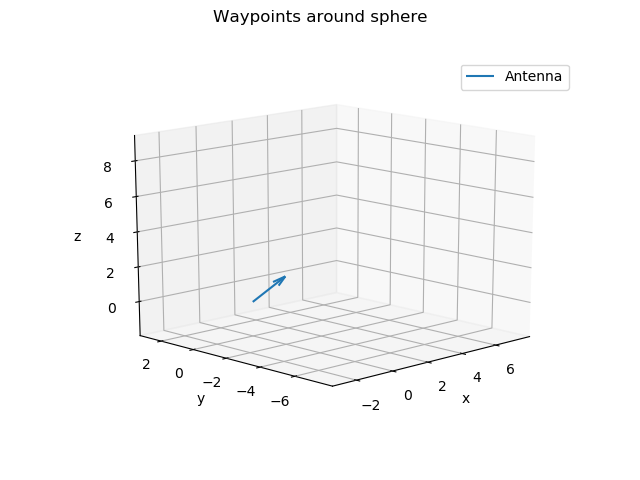
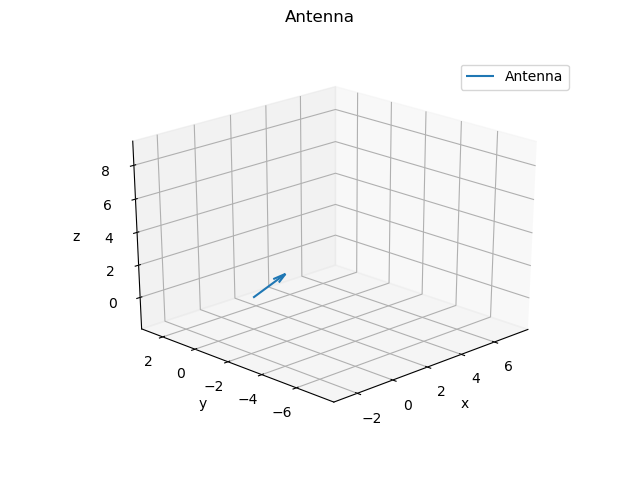
antenna pic

diff --git a/SwarmSphereCoverage_plot.py b/SwarmSphereCoverage_plot.py
@@ -63,7 +63,7 @@ def generate_points(direction =  np.zeros((3)), sphere_radius: float=5, distance
     if plot:
         # plot roots
         fig = plt.figure()
-        fig.suptitle("Waypoints around sphere", fontsize=12)
+        fig.suptitle("Antenna", fontsize=12)
         ax = fig.add_subplot(111, projection='3d')
         # for i in range(num_points):
         #     ax.scatter(X[i],Y[i],Z[i], s=30,color='r')#color=color_list[i])
@@ -85,10 +85,10 @@ def generate_points(direction =  np.zeros((3)), sphere_radius: float=5, distance
             # centers_[i,:] = R.apply(centers_[i,:]) 
             rot = np.array([X[i],Y[i],Z[i]])
             rot = R.apply(rot) 
-            ax.scatter(rot[0],rot[1],rot[2], marker='o', s=20, color='red',alpha = 0.3)
+            ax.scatter(rot[0],rot[1],rot[2], marker='o', s=0, color='red',alpha = 0.3)
         rot = np.array([X[-1],Y[-1],Z[-1]])
         rot = R.apply(rot)
-        ax.scatter(rot[0],rot[1],rot[2], marker='o', s=20, color='red',alpha = 0.3, label="Waypoints")
+        # ax.scatter(rot[0],rot[1],rot[2], marker='o', s=0, color='red',alpha = 0.3, label="Waypoints")
         
 
         R = Rotation.from_rotvec(direction)
@@ -103,35 +103,35 @@ def generate_points(direction =  np.zeros((3)), sphere_radius: float=5, distance
     
     #select only point above threshold
     points_thresh = points[:, np.argwhere(points[2,:] > distance_dir)]
-    if plot:
-        # plot roots
-        fig = plt.figure()
-        fig.suptitle("Selected waypoints", fontsize=12)
-        ax = fig.add_subplot(111, projection='3d')
+    # if plot:
+    #     # plot roots
+    #     fig = plt.figure()
+    #     fig.suptitle("Selected waypoints", fontsize=12)
+    #     ax = fig.add_subplot(111, projection='3d')
 
         
-        R = Rotation.from_rotvec(direction)
-        u, v, w = R.apply([0,0,1])
-        print(points_thresh.shape)
-        for i in range(points_thresh.shape[1]-1):
+    #     R = Rotation.from_rotvec(direction)
+    #     u, v, w = R.apply([0,0,1])
+    #     print(points_thresh.shape)
+    #     for i in range(points_thresh.shape[1]-1):
             
-            # ax.scatter(X[i],Y[i],Z[i], s=30,color='r')#color=color_list[i])
-            # centers_[i,:] = R.apply(centers_[i,:]) 
-            rot = np.array([points_thresh[0,i],points_thresh[1,i],points_thresh[2,i]]).reshape(3)
-            rot = R.apply(rot) 
-            ax.scatter(rot[0],rot[1],rot[2], marker='o', s=20, color='g',alpha = 0.3)
-        rot = np.array([points_thresh[0,-1],points_thresh[1,-1],points_thresh[2,-1]]).reshape(3)
-        rot = R.apply(rot)
-        ax.scatter(rot[0],rot[1],rot[2], marker='o', s=20, color='g',alpha = 0.3, label="Selected waypoints")
+    #         # ax.scatter(X[i],Y[i],Z[i], s=30,color='r')#color=color_list[i])
+    #         # centers_[i,:] = R.apply(centers_[i,:]) 
+    #         rot = np.array([points_thresh[0,i],points_thresh[1,i],points_thresh[2,i]]).reshape(3)
+    #         rot = R.apply(rot) 
+    #         ax.scatter(rot[0],rot[1],rot[2], marker='o', s=20, color='g',alpha = 0.3)
+    #     rot = np.array([points_thresh[0,-1],points_thresh[1,-1],points_thresh[2,-1]]).reshape(3)
+    #     rot = R.apply(rot)
+    #     ax.scatter(rot[0],rot[1],rot[2], marker='o', s=20, color='g',alpha = 0.3, label="Selected waypoints")
         
 
-        R = Rotation.from_rotvec(direction)
-        u, v, w = R.apply([0,0,1])
-        ax.quiver(0, 0, 0, u,v,w, length=2, normalize=True,label="Antenna")
-        ax.legend()
-        ax.set_xlabel('x')
-        ax.set_ylabel('y')
-        ax.set_zlabel('z')    
+    #     R = Rotation.from_rotvec(direction)
+    #     u, v, w = R.apply([0,0,1])
+    #     ax.quiver(0, 0, 0, u,v,w, length=2, normalize=True,label="Antenna")
+    #     ax.legend()
+    #     ax.set_xlabel('x')
+    #     ax.set_ylabel('y')
+    #     ax.set_zlabel('z')    
     return points_thresh
 
 def cluster_points(points: np.ndarray, sphere_radius: float=5, direction: np.ndarray=np.zeros((3)), num_drones: float=5, plot=False):
@@ -254,9 +254,9 @@ NUM_DRONES = 4
 
 if __name__ == "__main__":
     # Generate points around sphere.
-    points = generate_points(sphere_radius=SPHERE_RADIUS, direction = DIRECTION,distance_dir=DISTANCE_DIR, points_per_m2=POINTS_PER_M2, plot=False)
+    points = generate_points(sphere_radius=SPHERE_RADIUS, direction = DIRECTION,distance_dir=DISTANCE_DIR, points_per_m2=POINTS_PER_M2, plot=True)
     # Cluster points based on number of drones.
-    clusters, distance_matrices = cluster_points(points=points, sphere_radius=SPHERE_RADIUS, direction=DIRECTION, num_drones=NUM_DRONES, plot=False)
-    # # Find trajectories that satisfy complete coverage.
-    trajectories = find_trajectories(clusters=clusters, distance_matrices=distance_matrices, direction=DIRECTION, num_drones=NUM_DRONES, plot=True)
+    # clusters, distance_matrices = cluster_points(points=points, sphere_radius=SPHERE_RADIUS, direction=DIRECTION, num_drones=NUM_DRONES, plot=False)
+    # # # Find trajectories that satisfy complete coverage.
+    # trajectories = find_trajectories(clusters=clusters, distance_matrices=distance_matrices, direction=DIRECTION, num_drones=NUM_DRONES, plot=True)
     plt.show()
